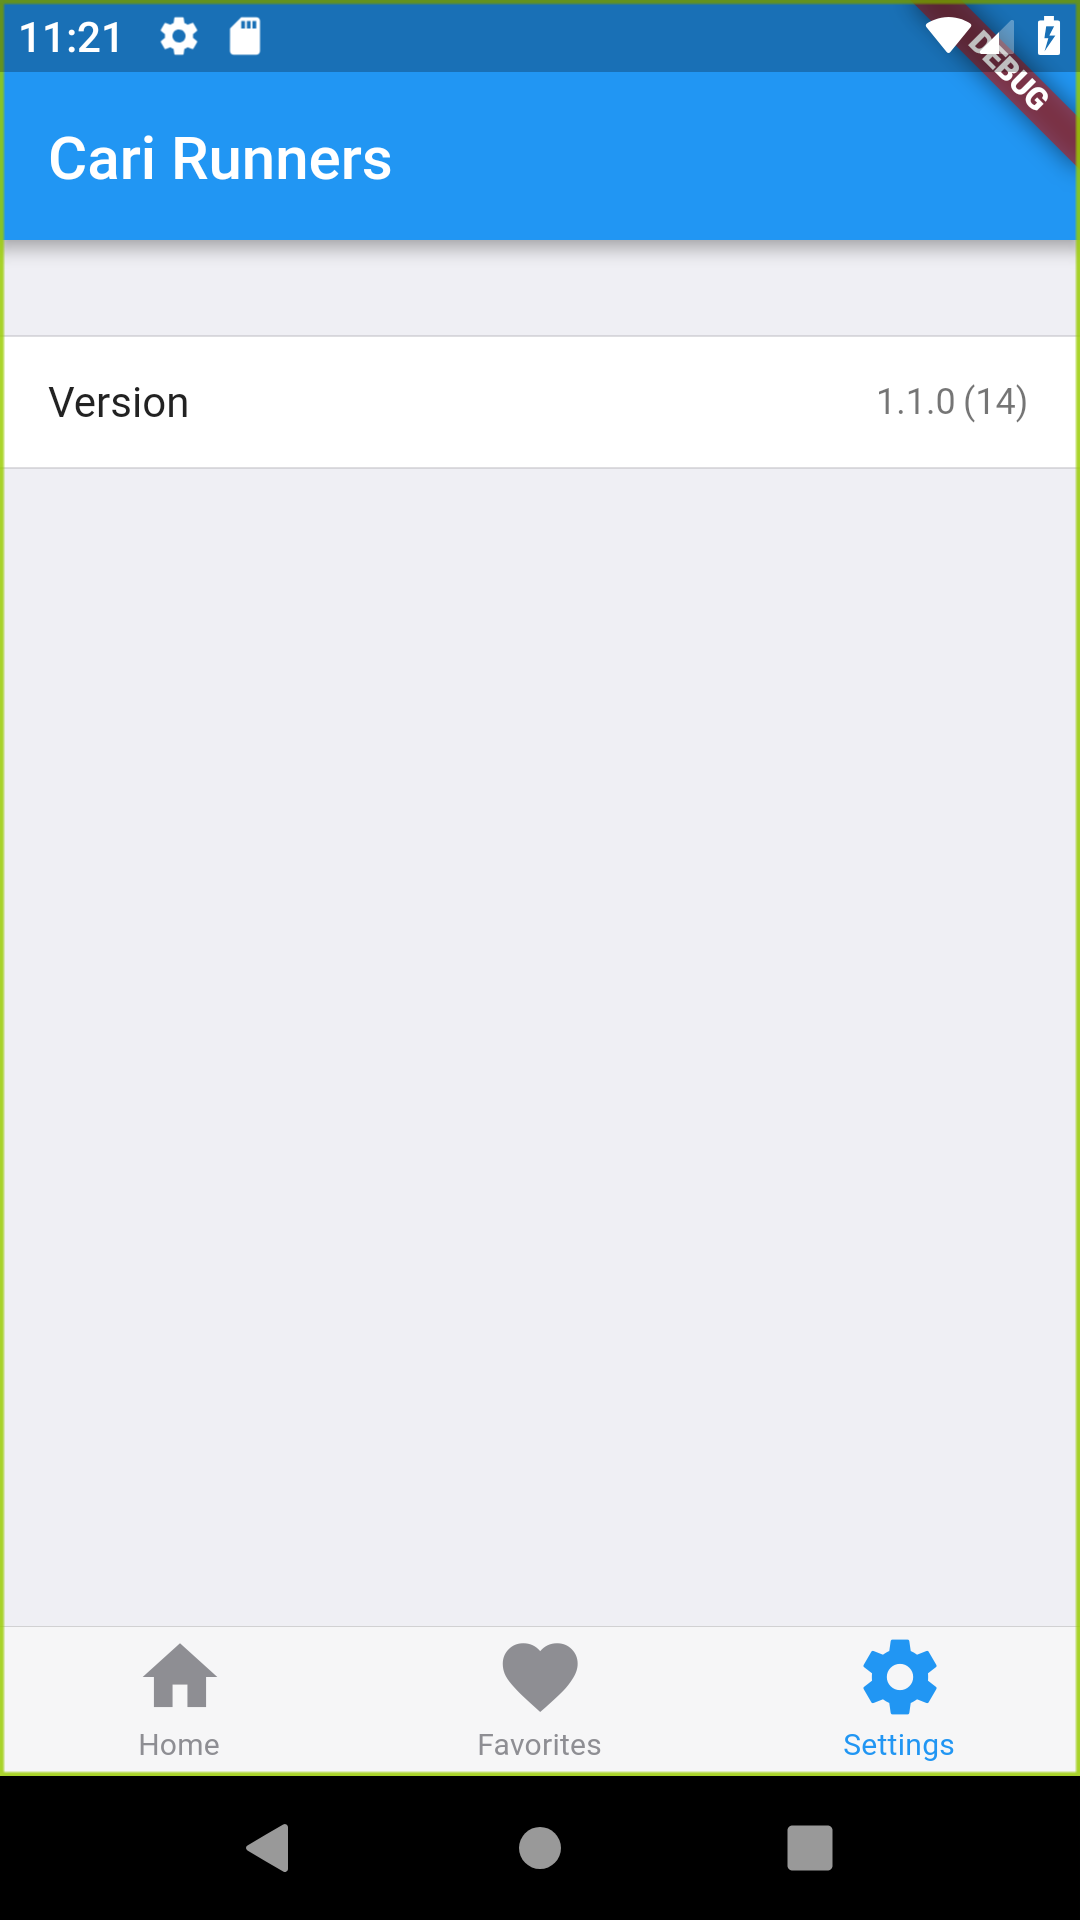
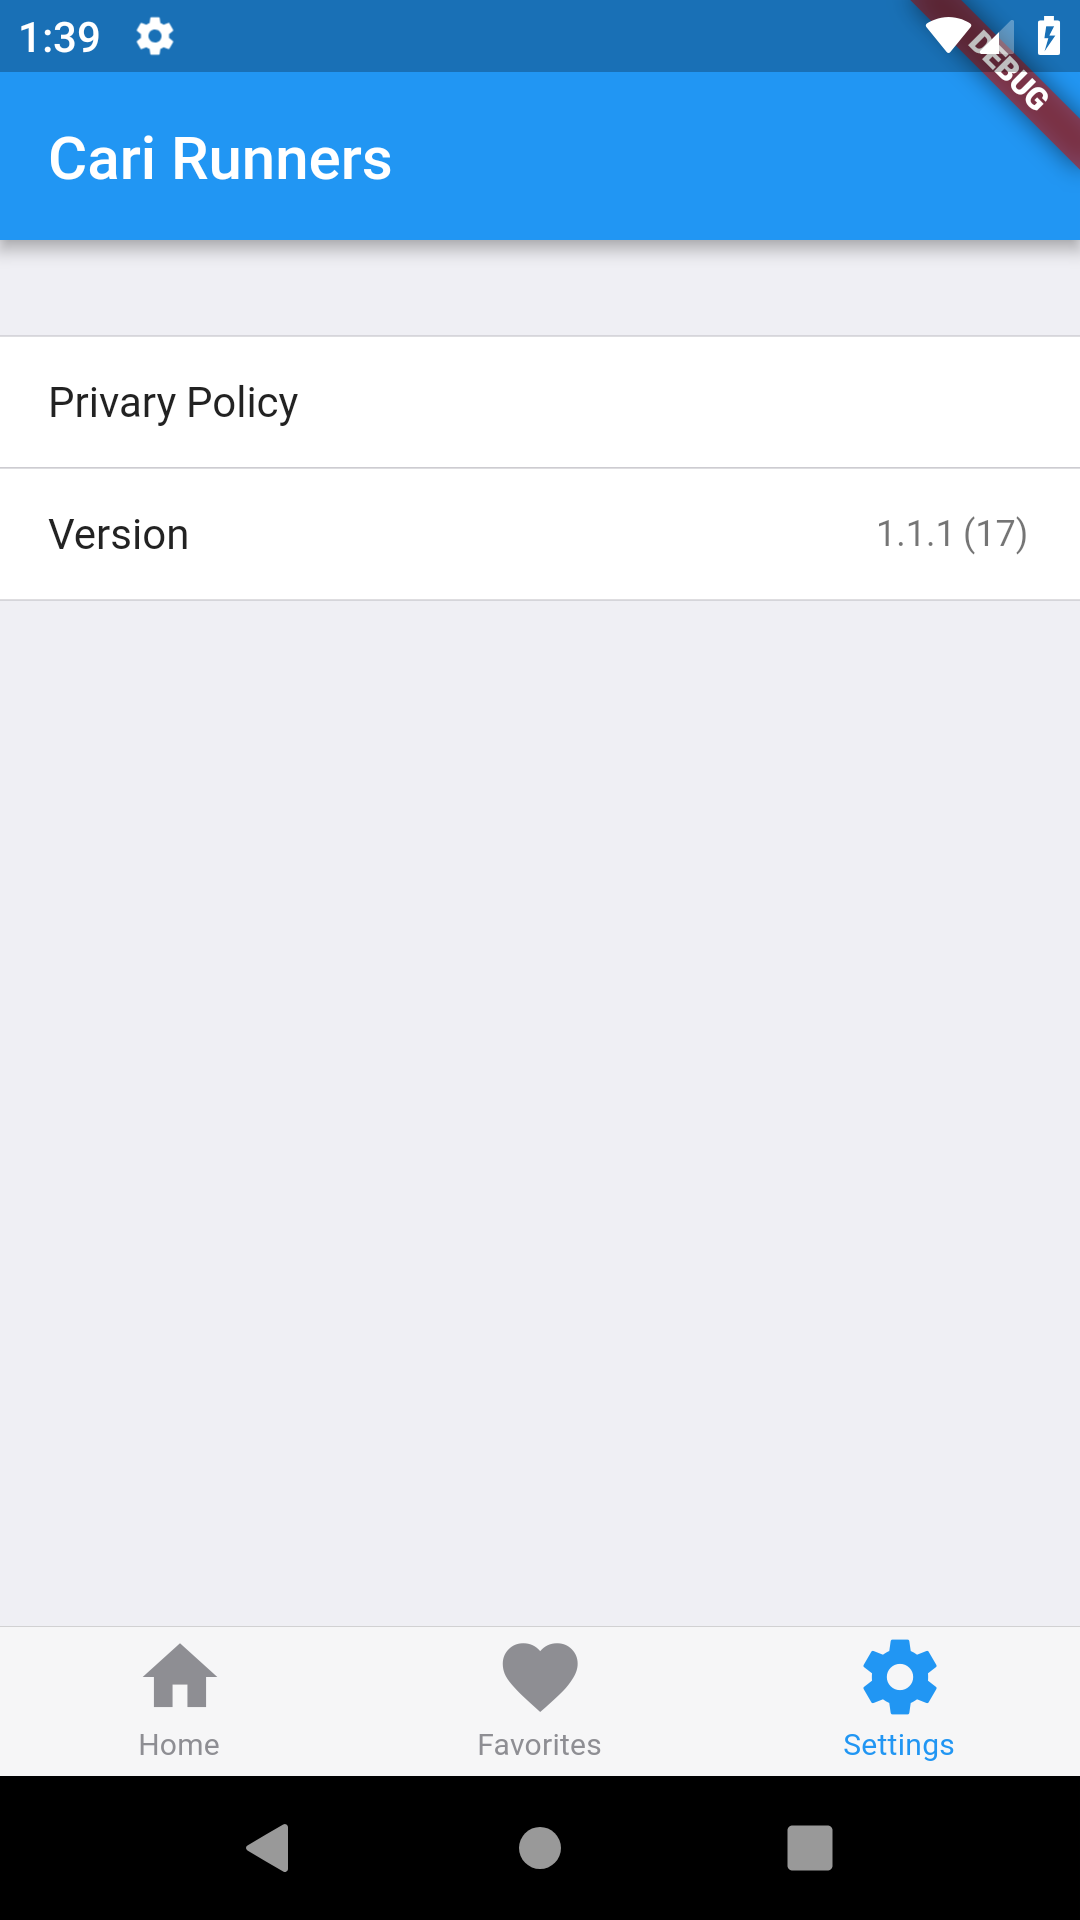
- Add privacy policy url.

diff --git a/lib/main.dart b/lib/main.dart
@@ -11,6 +11,7 @@ import 'package:html/dom.dart' as dom;
 import 'package:html/parser.dart' show parse;
 import 'package:http/http.dart' as http;
 import 'package:package_info/package_info.dart';
+import 'package:url_launcher/url_launcher.dart';
 
 import 'database.dart';
 import 'favorite_icon_button.dart';
@@ -643,6 +644,35 @@ class SettingTabState extends State<SettingTab> {
       child: new ListView(
         children: <Widget>[
           const Padding(padding: const EdgeInsets.only(top: 32.0)),
+          new GestureDetector(
+            child: new Container(
+              decoration: const BoxDecoration(
+                color: Colors.white,
+                border: const Border(
+                  top: const BorderSide(
+                      color: const Color(0xFFBCBBC1), width: 0.0),
+                  bottom: const BorderSide(
+                      color: const Color(0xFFBCBBC1), width: 0.0),
+                ),
+              ),
+              height: 44.0,
+              child: new Padding(
+                padding:
+                    const EdgeInsets.symmetric(horizontal: 16.0, vertical: 8.0),
+                child: new Row(
+                  mainAxisAlignment: MainAxisAlignment.spaceBetween,
+                  mainAxisSize: MainAxisSize.min,
+                  children: <Widget>[
+                    new Text("Privary Policy",
+                        style: Theme.of(context).textTheme.body1),
+                  ],
+                ),
+              ),
+            ),
+            onTap: () {
+              launch("https://carirunners.blogspot.com/p/privacy-policy.html");
+            },
+          ),
           new Container(
             decoration: const BoxDecoration(
               color: Colors.white,

diff --git a/README.md b/README.md
@@ -45,5 +45,5 @@ Create a `ios/Runner/GoogleService-Info.plist` files to include your own Firebas
 ![Search](art/ios/Search.JPG)
 ![Post](art/ios/Post.png)
 ![Favorites](art/ios/Favorites.png)
-![Settings](art/ios/Settings.JPG)
+![Settings](art/ios/Settings.png)
 ![Push Notification](art/ios/PushNotification.png)
